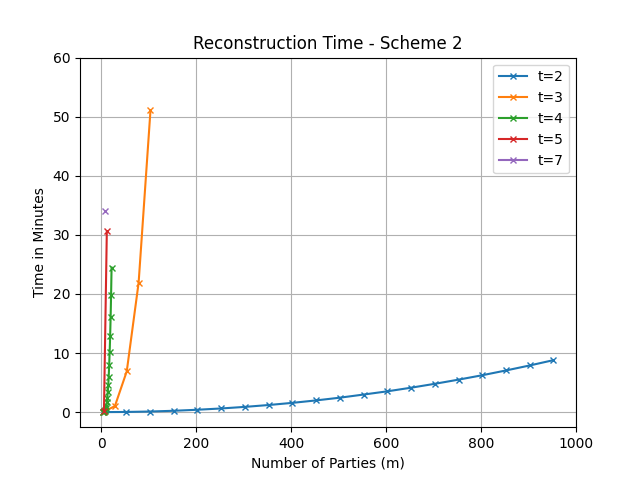
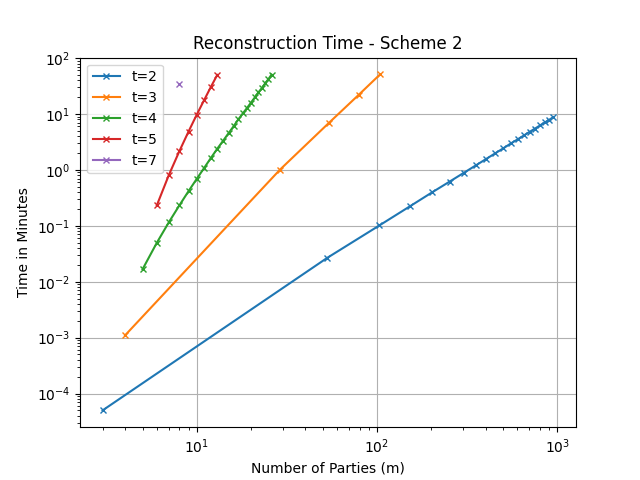
change to logarithmic axis

diff --git a/Graphs/plot_reconstruction_time.py b/Graphs/plot_reconstruction_time.py
@@ -90,17 +90,19 @@ def get_row(t, matrix, name="avg"):
             y.append(elem)
     return x, y
 
-def plot_graph(matrix_s1, scheme_no):
+def plot_graph(matrix, scheme_no):
     plt.title("Reconstruction Time - Scheme {}".format(scheme_no))
     plt.xlabel("Number of Parties (m)")
     plt.ylabel("Time in Minutes")
 
-    for s, matrix in enumerate([matrix_s1]):
+    for s, matrix in enumerate([matrix]):
         for t in range(2, 100):
             row = get_row(t, matrix, "avg")
             if len(row[0]) > 0:
                 plt.plot(*row, label="t={}".format(t), marker='x', markersize=4)
-    plt.ylim(top=60)
+    #plt.ylim(top=60)
+    plt.yscale("log")
+    plt.xscale("log")
     plt.grid()
     plt.legend()
     plt.savefig("Recontruction_S{}.png".format(scheme_no))
@@ -109,3 +111,29 @@ def plot_graph(matrix_s1, scheme_no):
 matrix_s1, matrix_s2 = load_data(base_path)
 plot_graph(matrix_s1, 2)
 plot_graph(matrix_s2, 1)
+
+
+# Now we want a graph that has m on the x-axis and time for t/2 for each m
+def plot_mhalf_graph(matrix_s1, matrix_s2, scheme_no):
+    plt.title("Reconstruction Time for m=t/2".format(scheme_no))
+    plt.xlabel("Number of Parties (m)")
+    plt.ylabel("Time in Minutes")
+
+    for s, matrix in enumerate([matrix_s1, matrix_s2]):
+        x, y = [], []
+
+        for t in range(2, 100):
+            row = get_row(t, matrix, "avg")
+            if len(row[0]) >= 2*t:
+                x.append(t)
+                y.append(row[1][2*t])
+        plt.plot(x, y)
+
+    #plt.ylim(top=60)
+    plt.yscale("log")
+    plt.grid()
+    plt.legend()
+    plt.savefig("Recontruction_S{}.png".format(scheme_no))
+    plt.show()
+
+plot_mhalf_graph(matrix_s1, matrix_s2, 1)
